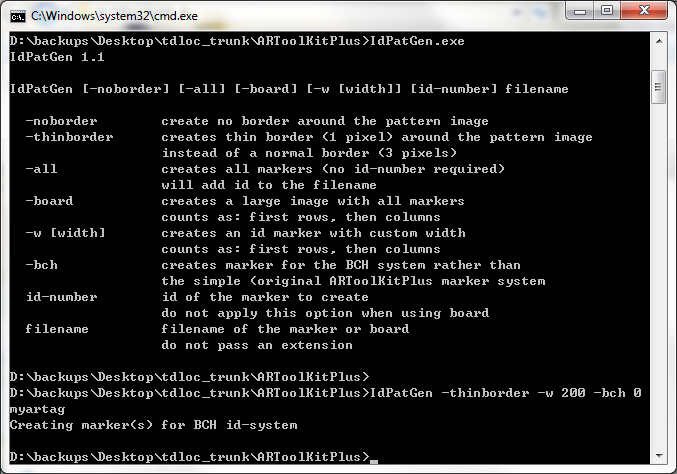
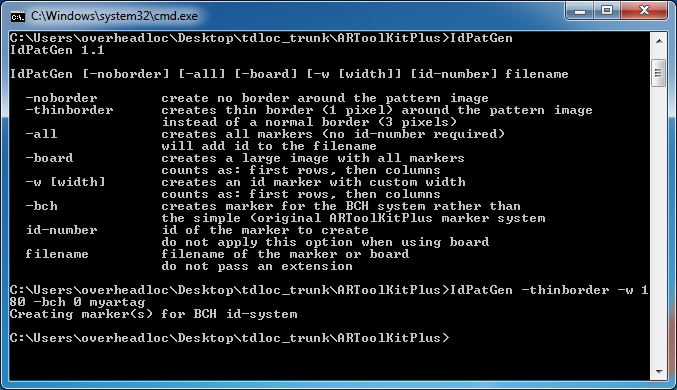
updated documentation to latest, 180 mm

diff --git a/index.html b/index.html
@@ -39,7 +39,7 @@ p {}
 <table width="800" border="0" cellspacing="0" cellpadding="0">
   <tr>
     <td width="728"><h1>Overhead Localization System User Manual</h1>
-      <p class="name">Created by Chuck Yang &nbsp;&nbsp;&nbsp;&nbsp;ty244 at cornell dot edu &nbsp;&nbsp;&nbsp;&nbsp; last modified: 1/22/2011</p></td>
+      <p class="name">Created by Chuck Yang &nbsp;&nbsp;&nbsp;&nbsp;ty244 at cornell dot edu &nbsp;&nbsp;&nbsp;&nbsp; last modified: 2/9/2011</p></td>
     <td width="72"><img src="doc/images/tdloc_icon.png" alt="" width="72" height="72" /></td>
   </tr>
 </table>
@@ -191,10 +191,10 @@ check the number of cameras detected by the computer under Device Manager (short
 <p><a name="artaggeneration"></a>
 </p>
 <h2>ARtag generation</h2>
-<p>  Run the windows command prompt and cd under <em>tdloc_trunk\ARToolKitPlus\</em>. Run <em><a href="doc/attached/IdPatGen.exe">IdPatGen.exe</a></em> without any argument after the command to display help instruction for the program. For the Overhead Localization Server, it is compatible with ARtags that has width of 200 cm, thin border, and BCH marker system. So an example of the command to generate the ARtag with ID 0 looks like following:</p>
-&nbsp;&nbsp;&nbsp;&nbsp;&nbsp;<code>IdPatGen -thinborder -w 200 -bch 0 myartag</code>
-<p align="center"><img src="doc/images/idpatgen.png" width="677" height="474" alt="IdPatGen command line" /></p>
-<p>Then an ARtag with filename of <em>&quot;<a href="doc/images/myartag_0000.tga">myartag_0000.tga</a>&quot;</em> will be generated under the same directory. To print out the ARtag, one can open the <em>.tga</em> file with Quicktime player and print. When it is printed, measure the width of the tag to make sure the width is 200 cm.</p>
+<p>  Run the windows command prompt and cd under <em>tdloc_trunk\ARToolKitPlus\</em>. Run <em><a href="doc/attached/IdPatGen.exe">IdPatGen.exe</a></em> without any argument after the command to display help instruction for the program. For the Overhead Localization Server, it is compatible with ARtags that has width of 180 mm, thin border, and BCH marker system. So an example of the command to generate the ARtag with ID 0 looks like following:</p>
+&nbsp;&nbsp;&nbsp;&nbsp;&nbsp;<code>IdPatGen -thinborder -w 180 -bch 0 myartag</code>
+<p align="center"><img src="doc/images/idpatgen.png" width="677" height="390" alt="IdPatGen command line" /></p>
+<p>Then an ARtag with filename of <em>&quot;<a href="doc/images/myartag_0000.tga">myartag_0000.tga</a>&quot;</em> will be generated under the same directory. To print out the ARtag, one can open the <em>.tga</em> file with Quicktime player and print. When it is printed, measure the width of the tag to make sure the width is 180 mm.</p>
 
 <p>&nbsp;</p>
 <p><a name="troubleshooting"></a>
